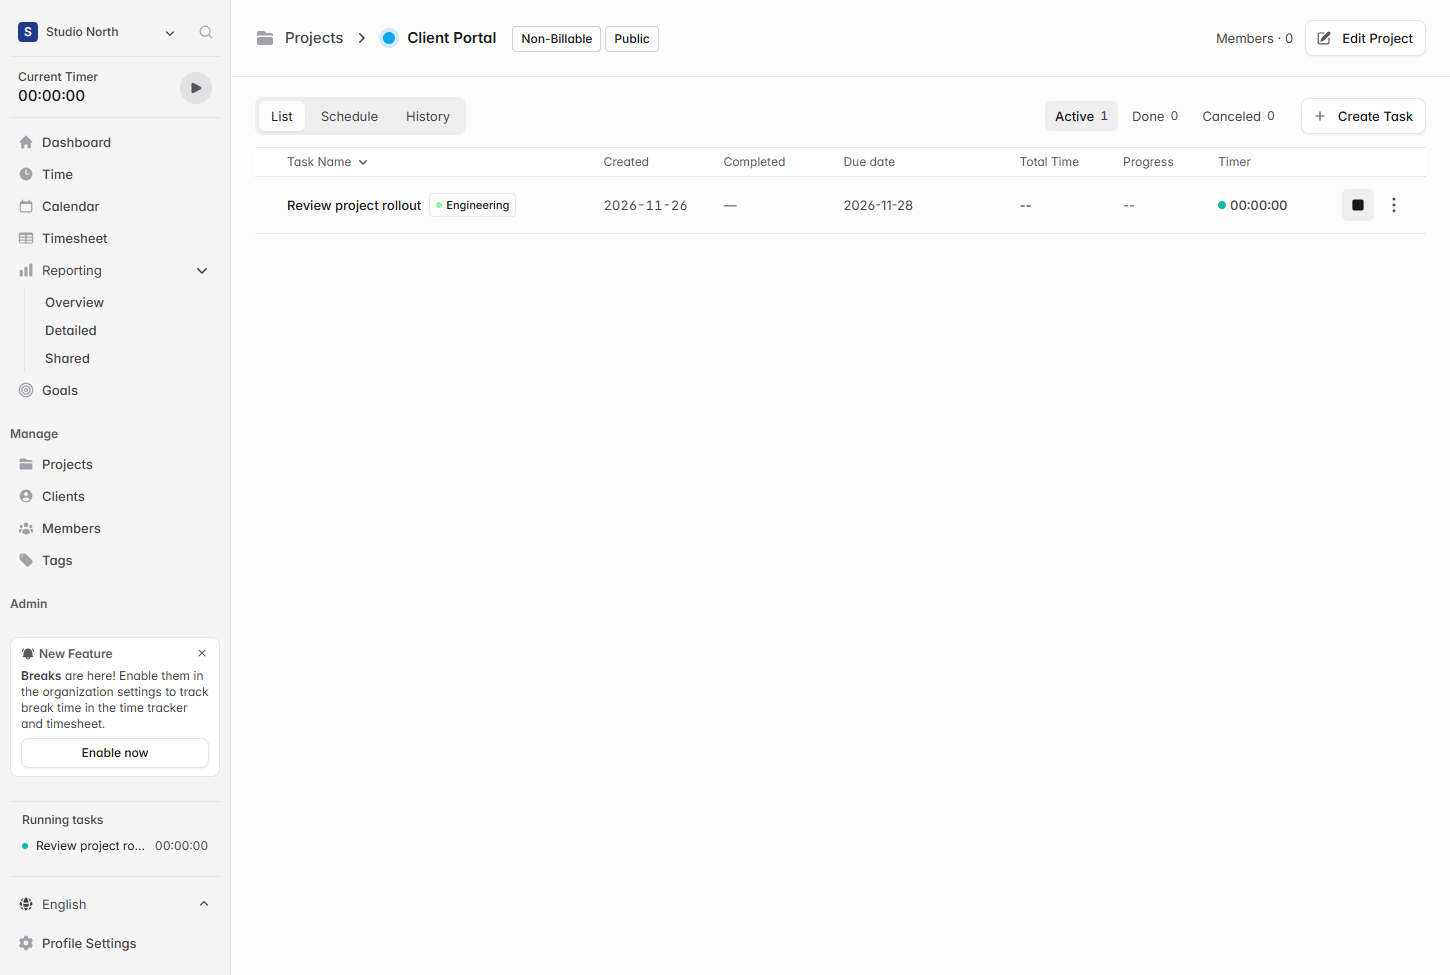
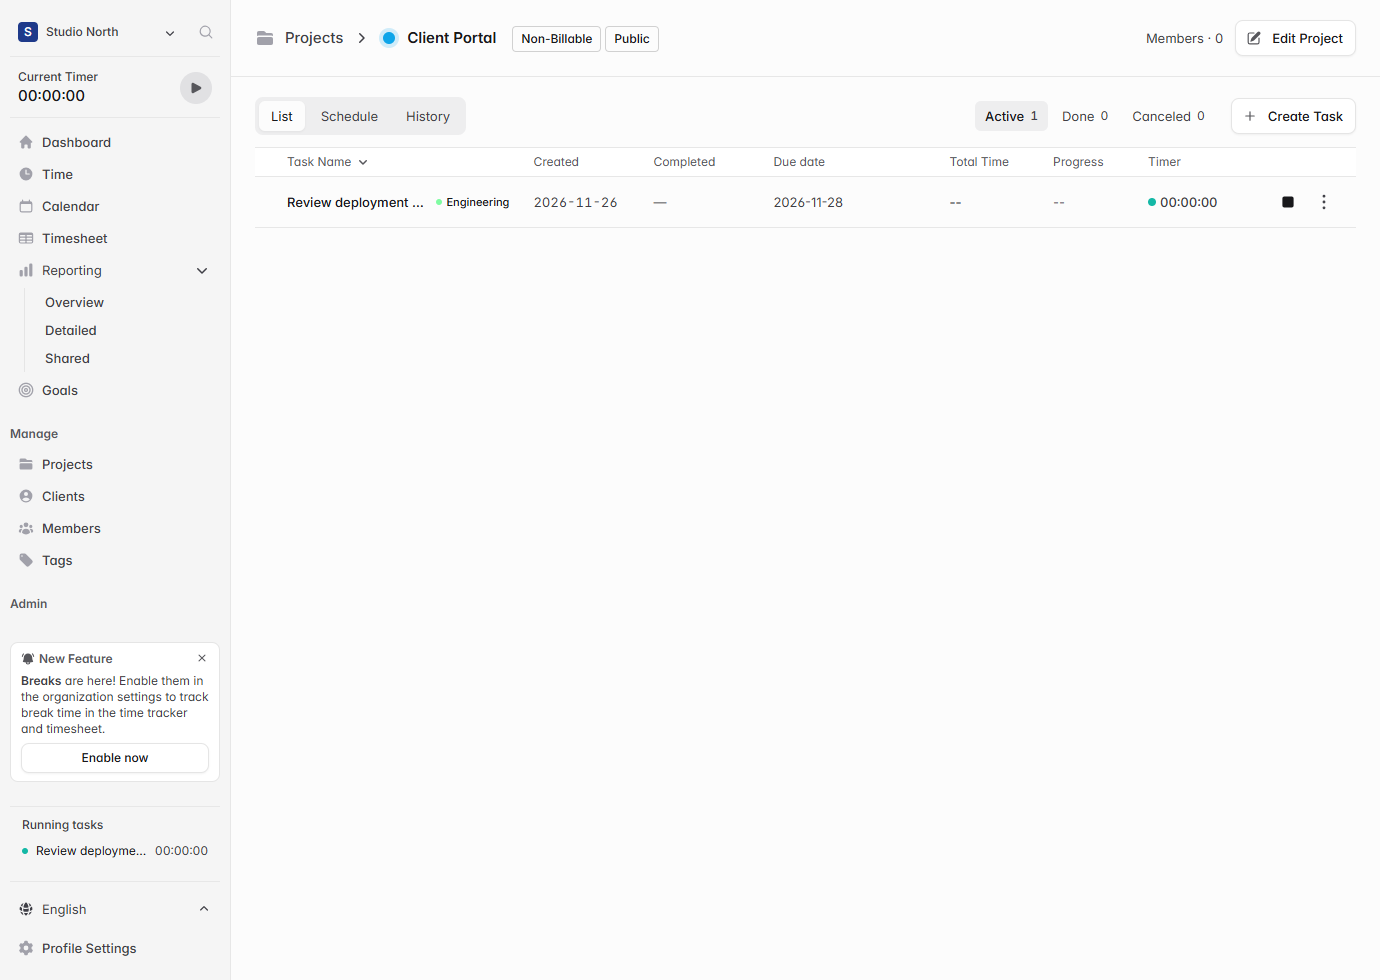
Refresh the borderless category screenshot and PR notes

diff --git a/README.md b/README.md
@@ -8,7 +8,7 @@ Project Schedule spread its controls across multiple rows, and the task form com
 
 - Place the view selector, date navigation, and Create Task on one toolbar. Show compact schedule dates and place elapsed time beside task controls.
 - Display both dates in one range input and use a shared calendar that fills both endpoints and shades the dates between them. Hover a day to preview the range, then apply the changes from the calendar footer. Advance to the due date after choosing a start date and keep the displayed month. Reject reversed dates before applying and keep the Ongoing option.
-- Use the primary text color for category labels and preserve their colors as dots.
+- Show task categories as readable text with a colored dot and a transparent background.
 - Separate running timers from the language and profile settings. Move Log Out and Feedback to the organization menu.
 
 ## Verification
@@ -21,7 +21,7 @@ Built the frontend and ran Vue type checking. In the local preview, created and 
 
 ![Task dates with filled endpoints and a shaded range across weeks](.github/feature-images/project-task-unified-date-picker.png)
 
-![Readable task categories and sidebar separation](.github/feature-images/project-task-contrast-and-sidebar.png)
+![Borderless task categories and sidebar separation](.github/feature-images/project-task-contrast-and-sidebar.png)
 
 ![Log Out in the organization menu](.github/feature-images/project-task-organization-menu.png)
 
